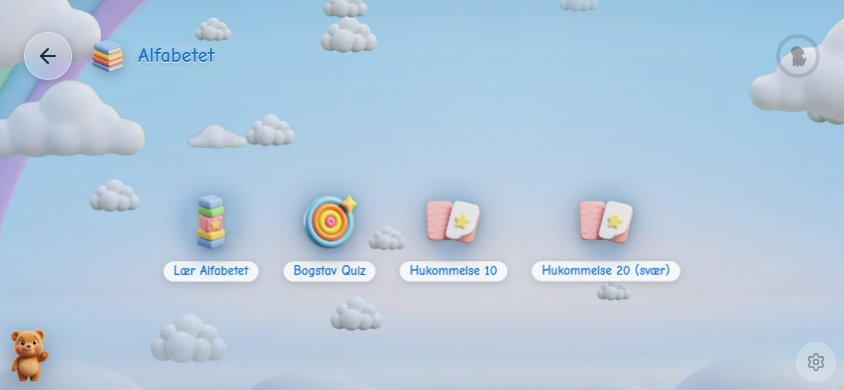
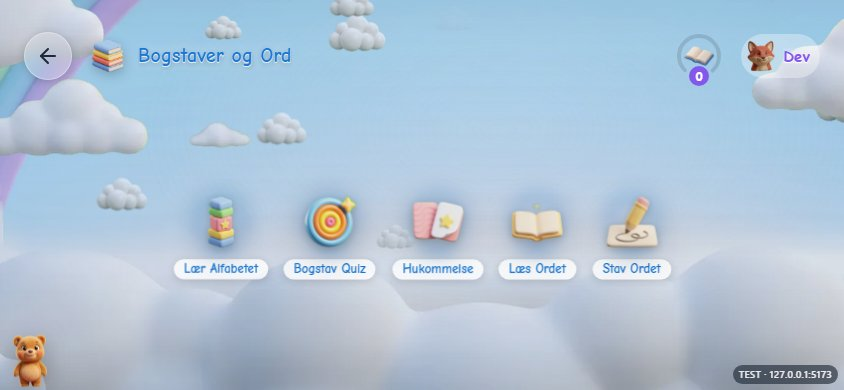
docs(doors): re-shot ui-reference for the four doors; PRD §10 progress log + deviations

diff --git a/plans/category-restructure/tmp-prd-category-restructure-01-four-doors.md b/plans/category-restructure/tmp-prd-category-restructure-01-four-doors.md
@@ -1,7 +1,8 @@
 # PRD — Category restructure 01: four front-page doors
 
-Status: authored 2026-10-17. **NOT implemented.** Owner decision session; every question in §2 was
-answered by the owner before this was written.
+Status: authored 2026-10-17. **IMPLEMENTED the same day behind the Krea gate (see §10)**, except the one
+owed door render and the 1.3 release step. Owner decision session; every question in §2 was answered
+by the owner before this was written.
 
 **Reverses / supersedes, by name:**
 - Krea PRD-01 (`plans/krea/tmp-prd-krea-01-section-and-drawing.md`) **§2.5 / §4.1** — Krea stops being a
@@ -300,6 +301,56 @@ reads at a glance; safe-area insets around the mascot on the real device.
 - The Fyld Båden gate (`boatGate.ts`): its own release decision.
 - Any game logic, difficulty values, the reward economy, sticker art.
 - New art beyond the one door render.
+
+---
+
+## 10. Progress log (implemented 2026-10-17, same session, owner away; not pushed)
+
+Status: **W0–W3, W5–W7 IMPLEMENTED** on master, behind the Krea gate. **W4 partly done**: the palette is
+wired, the prompt doc has been handed over, and **the Bogstaver og Ord render is owed by the owner** —
+until then that door shows the plain book stack (D7's fallback). **R (release) has not been done** and
+is the owner's call at 1.3.
+
+Commits: 9d38a24 W0 · 3a23366 W1 · 34aab62 W2 · 850c963 W3 · 3ec08be W5 · ac4140d W6 · daf1f47 W7 ·
+fixes after re-break/sweep (rowLevel, sweep hidden trays, centred home field).
+
+**Deviations from the text above (each deliberate):**
+- **A3 bloom = the MAX of the members, not the sum.** `bloomFor` returns a stage+fill, not raw XP, so a
+  sum has no meaning. Max is also the rule home already uses.
+- **`homeAnchorsKrea` was RENAMED `homeAnchorsDoors`** rather than reused under its old name, because
+  it no longer holds a Krea arc.
+- **T4 reserve is SYMMETRIC.** The first pass reserved only the mascot's side, which shifted the arc
+  ~100px right, off Rummet's planet and Dinosaurer's volcano. Both sides now reserve the mascot's width,
+  so the doors sit centred on each world's art.
+- **The back route went further than "route them through `menuRouteFor`".** GameShell no longer has a
+  `backRoute` prop at all; it derives the route from `categoryId`. One source, and a hard-coded route
+  cannot type-check back in.
+- **Colours alias through `setCategoryPaletteAlias`** (registered in `main.tsx`), not per call site, so
+  every `getCategoryTheme('ordleg'|'krea')` follows the door. The alias changes colours only, never names
+  or game lists.
+
+**Verification (by rung):**
+- Rung 1, Chrome `sweep --phase layout`: 297 jobs over 33 routes × 9 viewports (incl. the new 958×714).
+  All PASS once the load flakes were re-run serially; the `/krea/tegn` rows were a probe false positive
+  (closed stamp tray, `visibility:hidden`), and the probe now skips hidden elements. **No door or menu
+  tile intersects the mascot on any viewport, on any of the 4 skins.**
+- Rung 2, WebKit iPad UA: home + 4 door menus × 9 viewports PASS. One later run hit the dev API's 429
+  rate limit after hours of sweeping. That is environmental, an UNKNOWN rather than a defect.
+- Rung 1 audio (`--audio-report`): home → Bogstaver og Ord plays `4d933d8f…` (the door name). Back from
+  Stav Ordet lands on `/alphabet` in one hop and plays no door clip.
+- Rung 1: the Indstillinger row "Bogstaver og Ord: Svær" writes alphabet+ordleg; "Farver og Krea: Let"
+  writes colors+krea.
+- Production simulated in dev (gate forced off): the 5-section home, "Tal og Regning", and the `/ordleg`
+  menu are all unchanged. **Found: the CURRENT production home already puts the dino on "Alfabetet" at
+  958×714 and 1024×768.** It is left alone (D8, byte-identical) and disappears with the 1.3 release.
+- `/re-break`: 25 unit re-breaks, each flipping its own test, plus the comment-strip control (stayed
+  green). One was VACUOUS (`rowLevel`'s primary lookup was redundant); the code was simplified and the
+  break re-targeted. The sweep's mascot check was re-broken too: with the reserve removed it fails at
+  958×714, 1024×768 and 1254×872.
+
+**Rung 3 (owner's iPad) — UNKNOWN until then:** how the four spoken names sound, "krea" especially (they
+are approved-but-unheard via `audit:approve-all`); whether the child picks the right door from its
+picture; real touch on the 2×2 portrait home.
 
 ---
 

diff --git a/docs/ui-reference/README.md b/docs/ui-reference/README.md
@@ -9,7 +9,12 @@ folder always reflects the shipped UI.
 - **Krea** (`krea*.jpg`, added 2026-10-16) is gated by `kreaGate.ts` — visible on dev/staging only, so
   production users can't see what these show yet. `-guide-step`/`-color-page` deep-link with `?motiv=`.
   Perleplade (`krea-beads*.jpg`, 2026-10-17, at Normal = 13×13): the grid, `-pattern` (`?motiv=hjerte`)
-  and `-free` (`?motiv=fri-hjerte`); `krea.jpg` re-shot with its 4th tile.
+  and `-free` (`?motiv=fri-hjerte`). Krea's tiles now live in `farver.jpg` (see Four doors below).
+- **Four doors** (Category restructure PRD-01, 2026-10-17): `home`, `alphabet` (= Bogstaver og Ord),
+  `farver` (= Farver og Krea), `math` (= Tal) and `english` were re-shot with the four-door front page,
+  which rides the Krea gate — dev/staging only until v1.3. `ordleg.jpg` shows the menu only production
+  still has (it goes at the 1.3 release). The Krea menu shot was deleted: with four doors `/krea`
+  redirects to Farver og Krea and production never shows it, so it can no longer appear anywhere.
 - **Theme**: Regnbue (default — forced via `?theme=kid`). Other skins (Havet, Rummet, Junglen,
   Slikland, Dinosaurer) share the same layout; only tokens differ.
 - **Capture tool**: `.claude/skills/ui-screenshot/cdp.mjs` (headless Chrome). JPEG q85. The route
